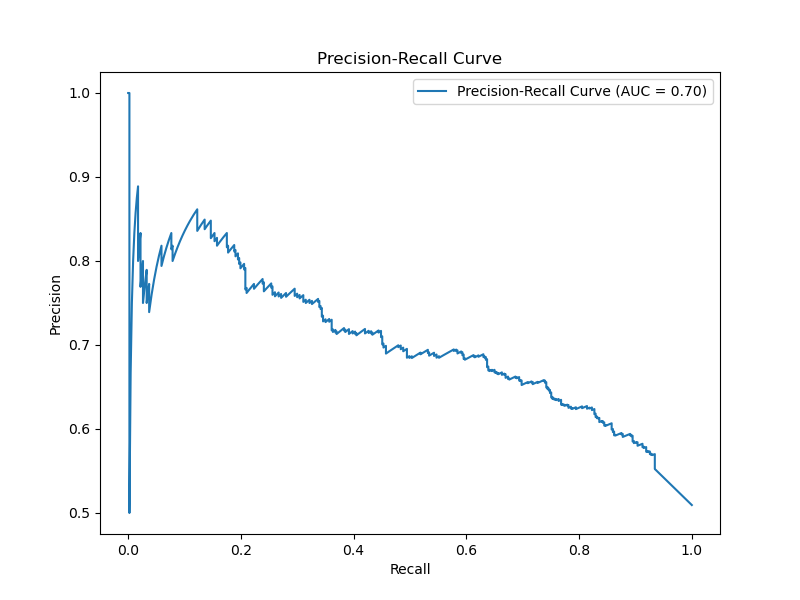
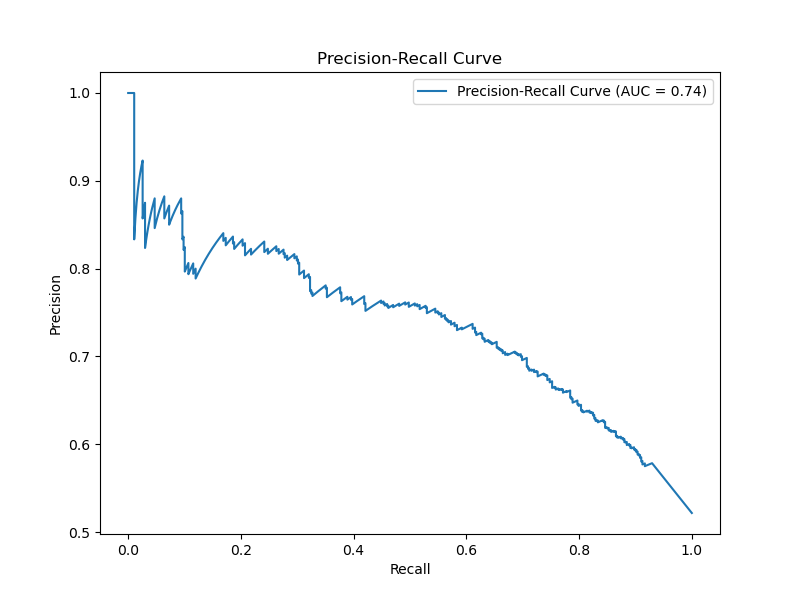
PR Curve

diff --git a/PR_curve_margin_score_color.py b/PR_curve_margin_score_color.py
@@ -1,0 +1,187 @@
+import os
+import numpy as np
+import matplotlib.pyplot as plt
+
+import torch
+import torch.nn.functional as F
+import torch.optim as optim
+from torch.utils import data as data_utils
+
+from sklearn.metrics import precision_recall_curve, average_precision_score, roc_auc_score
+
+import color_syncnet_train as train
+from models import SyncNet_color as SyncNet
+from hparams import hparams
+
+# ----------------------
+# Config
+# ----------------------
+fig_path        = "PR_curve_margin_color.png"
+eval_step_max   = None          # e.g., 1000 to cap eval examples
+check_in_steps  = 100
+max_shift       = 15            # frames to search left/right for alignment
+checkpoint_path = train.args.checkpoint_path
+
+use_cuda = torch.cuda.is_available()
+device   = torch.device("cuda" if use_cuda else "cpu")
+
+# ----------------------
+# Scoring: SyncNet-style margin score
+#   score = sim(shift=0) - max_{shift!=0} sim(shift)
+# where sim is mean cosine similarity over the *overlapping* timesteps
+# ----------------------
+def sync_margin_score(a_seq: torch.Tensor, v_seq: torch.Tensor, max_shift: int = 15) -> float:
+    """
+    a_seq, v_seq: [T, D] audio/video embedding sequences for a single example.
+    Returns a higher-is-better margin indicating that zero-shift looks best.
+    """
+    # Ensure [T, D]
+    if a_seq.dim() == 1: a_seq = a_seq.unsqueeze(0)
+    if v_seq.dim() == 1: v_seq = v_seq.unsqueeze(0)
+    assert a_seq.dim() == 2 and v_seq.dim() == 2, f"Expected [T, D]; got {a_seq.shape}, {v_seq.shape}"
+
+    T = min(a_seq.size(0), v_seq.size(0))
+    if T == 0:
+        return float("-inf")
+
+    a_seq = a_seq[:T]
+    v_seq = v_seq[:T]
+
+    sims = []
+    has_nonzero = False
+    for s in range(-max_shift, max_shift + 1):
+        if s < 0:
+            # audio is *ahead* of video by |s|
+            a_aligned = a_seq[-s:]        # drop first |s| from audio
+            v_aligned = v_seq[:T + s]     # drop last |s| from video
+        elif s > 0:
+            # video is ahead of audio by s
+            a_aligned = a_seq[:T - s]
+            v_aligned = v_seq[s:]
+        else:
+            a_aligned = a_seq
+            v_aligned = v_seq
+
+        if a_aligned.size(0) == 0:
+            sims.append(float("-inf"))
+            continue
+
+        sim = F.cosine_similarity(a_aligned, v_aligned, dim=1).mean()
+        sims.append(sim.item())
+        if s != 0 and sims[-1] != float("-inf"):
+            has_nonzero = True
+
+    zero_sim = sims[max_shift]  # s = 0 is centered
+    if not has_nonzero:
+        # No valid non-zero overlaps (clip too short vs. max_shift) -> fall back to zero-sim
+        return zero_sim
+
+    nonzero_best = max(sims[:max_shift] + sims[max_shift + 1:])
+    return zero_sim - nonzero_best
+
+# ----------------------
+# Evaluation loop
+# ----------------------
+def eval_model_syncnet_task(test_loader, device, model, max_shift=15, check_in_steps=100, eval_step_max=None):
+    model.eval()
+    y_true, y_score = [], []
+
+    with torch.no_grad():
+        for step, batch in enumerate(test_loader):
+            # Expect (x, mel, y)
+            x, mel, y = batch
+            x   = x.to(device, non_blocking=True)
+            mel = mel.to(device, non_blocking=True)
+            y   = y.to(device, non_blocking=True)
+
+            # Model returns embeddings for audio/video
+            # Preferably shapes: [B, T, D]
+            a, v = model(mel, x)
+
+            # Make batch-safe; handle possible [B, D] by promoting to T=1
+            if a.dim() == 2:  # [B, D] -> [B, 1, D]
+                a = a.unsqueeze(1)
+            elif a.dim() == 1:           # [D] -> [1,1,D]
+                a = a.unsqueeze(0).unsqueeze(1)
+            if v.dim() == 2:
+                v = v.unsqueeze(1)
+            elif v.dim() == 1:
+                v = v.unsqueeze(0).unsqueeze(1)
+
+            B = a.size(0)
+            for b in range(B):
+                a_seq = a[b]          # [T, D]
+                v_seq = v[b]          # [T, D]
+                score = sync_margin_score(a_seq, v_seq, max_shift=max_shift)
+                y_score.append(float(score))
+
+            # Collect labels as 0/1
+            y_true.extend(y.view(-1).detach().float().cpu().tolist())
+
+            if eval_step_max is not None and step >= eval_step_max:
+                break
+
+            if check_in_steps and step % check_in_steps == 0 and step > 0:
+                print(f"[Eval] Step {step}: collected {len(y_true)} examples")
+
+    return y_true, y_score
+
+# ----------------------
+# Main
+# ----------------------
+def main():
+    model = SyncNet().to(device)
+    print('total trainable params', sum(p.numel() for p in model.parameters() if p.requires_grad))
+
+    optimizer = optim.Adam([p for p in model.parameters() if p.requires_grad], lr=hparams.syncnet_lr)
+
+    print(f"Loading checkpoint from: {checkpoint_path}")
+    if checkpoint_path:
+        train.load_checkpoint(checkpoint_path, model, optimizer, reset_optimizer=False, use_cuda=use_cuda)
+
+    test_dataset = train.Dataset('val')
+    test_loader = data_utils.DataLoader(
+        test_dataset,
+        batch_size=1,            # keep 1 if your dataset yields full clips; raise if safe
+        num_workers=1,
+        pin_memory=use_cuda
+    )
+
+    y_true, y_score = eval_model_syncnet_task(
+        test_loader, device, model,
+        max_shift=max_shift,
+        check_in_steps=check_in_steps,
+        eval_step_max=eval_step_max
+    )
+
+    # Sanity: ensure binary labels {0,1}
+    uniq = sorted(set(int(t) for t in y_true))
+    if not set(uniq).issubset({0, 1}):
+        raise ValueError(f"Labels must be 0/1; got {uniq}")
+
+    # Metrics
+    precision, recall, thresholds = precision_recall_curve(y_true, y_score, pos_label=1)
+    ap  = average_precision_score(y_true, y_score)
+    roc = roc_auc_score(y_true, y_score) if len(set(y_true)) == 2 else float("nan")
+
+    # Best-F1 on PR curve
+    f1 = (2 * precision * recall) / (precision + recall + 1e-12)
+    best_idx = int(np.nanargmax(f1))
+    best_f1 = float(f1[best_idx])
+    best_thr = float(thresholds[max(0, best_idx - 1)]) if len(thresholds) else float("nan")
+
+    print(f"Eval results: AP={ap:.4f}  ROC-AUC={roc:.4f}  Best-F1={best_f1:.4f} @ thr={best_thr:.4f}")
+
+    # Plot PR
+    plt.figure(figsize=(8, 6))
+    plt.plot(recall, precision, label=f'PR (AP = {ap:.3f})')
+    plt.xlabel('Recall')
+    plt.ylabel('Precision')
+    plt.title('SyncNet (shift-margin) Precision–Recall')
+    plt.legend()
+    plt.tight_layout()
+    plt.savefig(fig_path)
+    print(f"Saved PR curve to: {os.path.abspath(fig_path)}")
+
+if __name__ == "__main__":
+    main()

diff --git a/PR_curve_color_syncnet_task.py b/PR_curve_color_syncnet_task.py
@@ -12,7 +12,7 @@ import torch.optim as optim
 from torch.utils import data as data_utils
 
 fig_path = "PR_curve_color_syncnet.png"
-eval_step_max = 100
+eval_step_max = None
 checkpoint_path = train.args.checkpoint_path
 
 use_cuda = torch.cuda.is_available()
@@ -72,6 +72,7 @@ def eval_model_syncnet_task(test_loader, device, model):
 
             if eval_step_max is not None and step >= eval_step_max:
                 break
+    return y_true, y_score
 
 model = SyncNet().to(device)
 print('total trainable params {}'.format(sum(p.numel() for p in model.parameters() if p.requires_grad)))

diff --git a/models/st_gcn.py b/models/st_gcn.py
@@ -1,0 +1,6 @@
+import math
+from typing import Optional
+
+import torch
+import torch.nn as nn
+import torch.nn.functional as F
